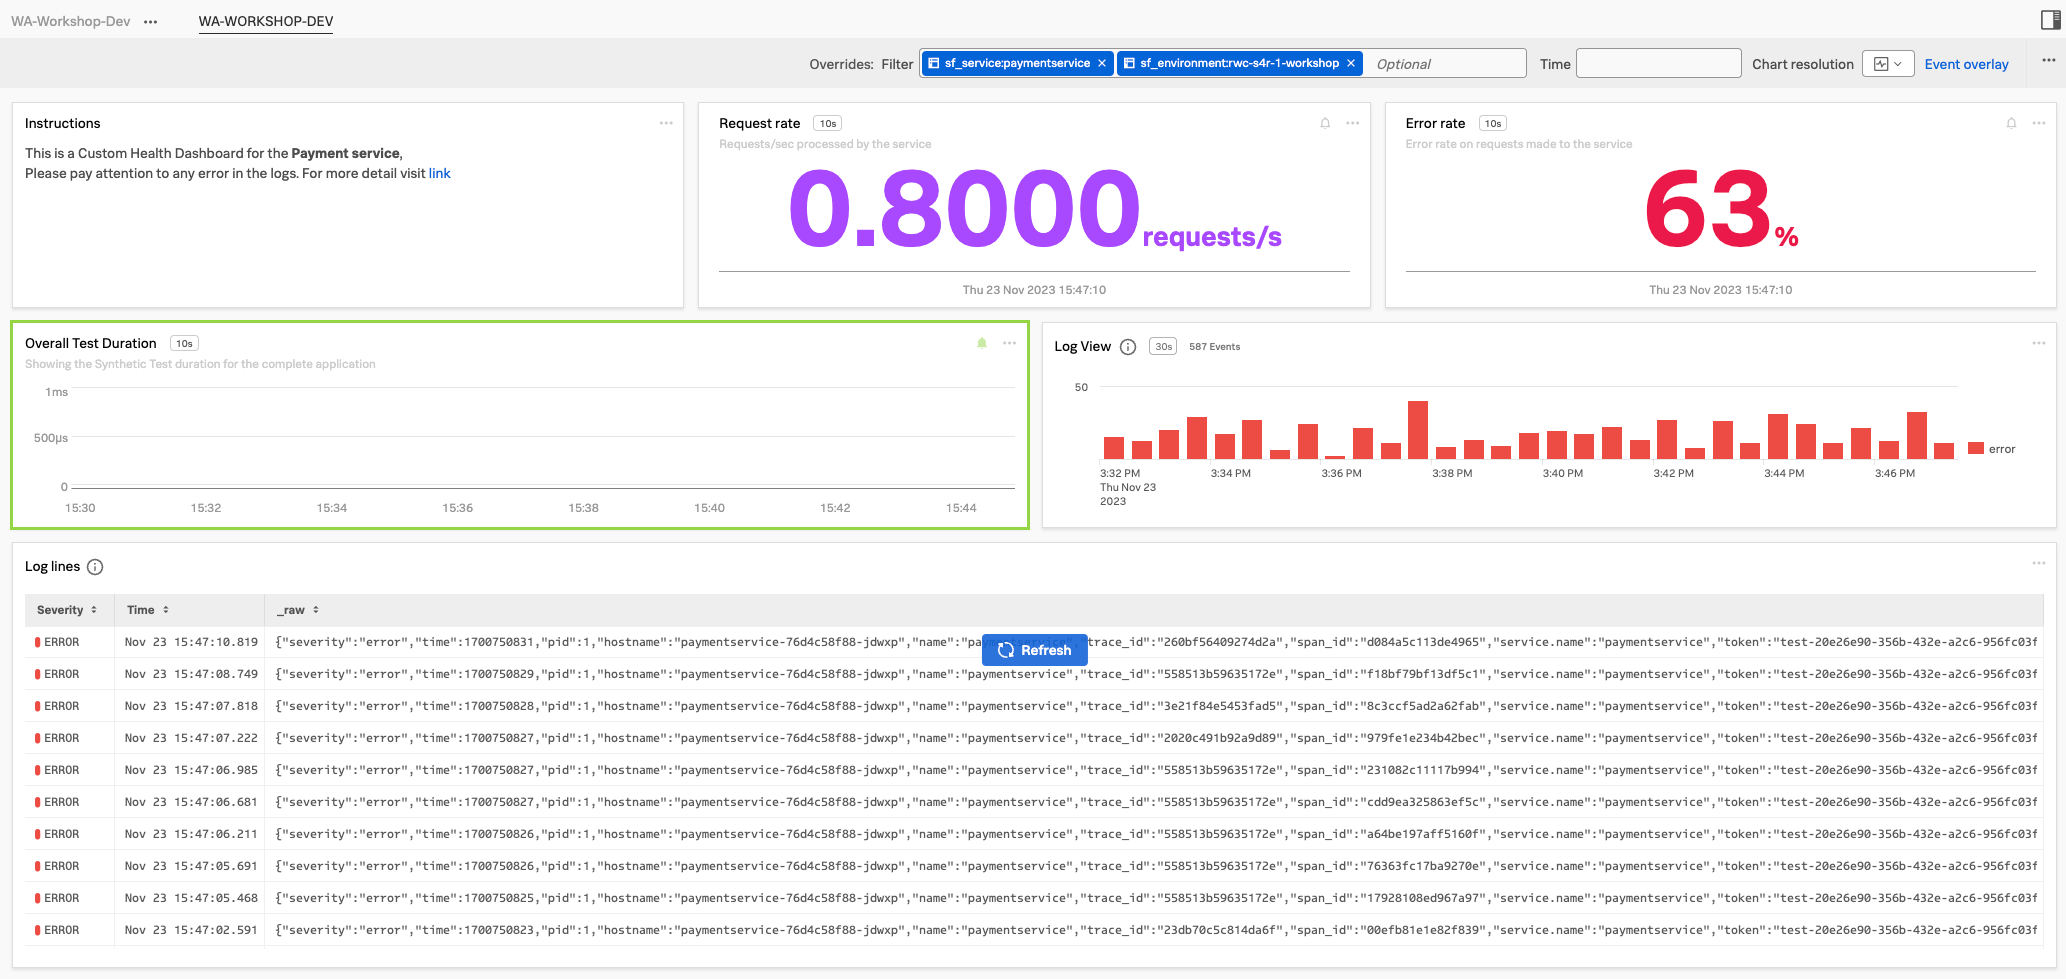
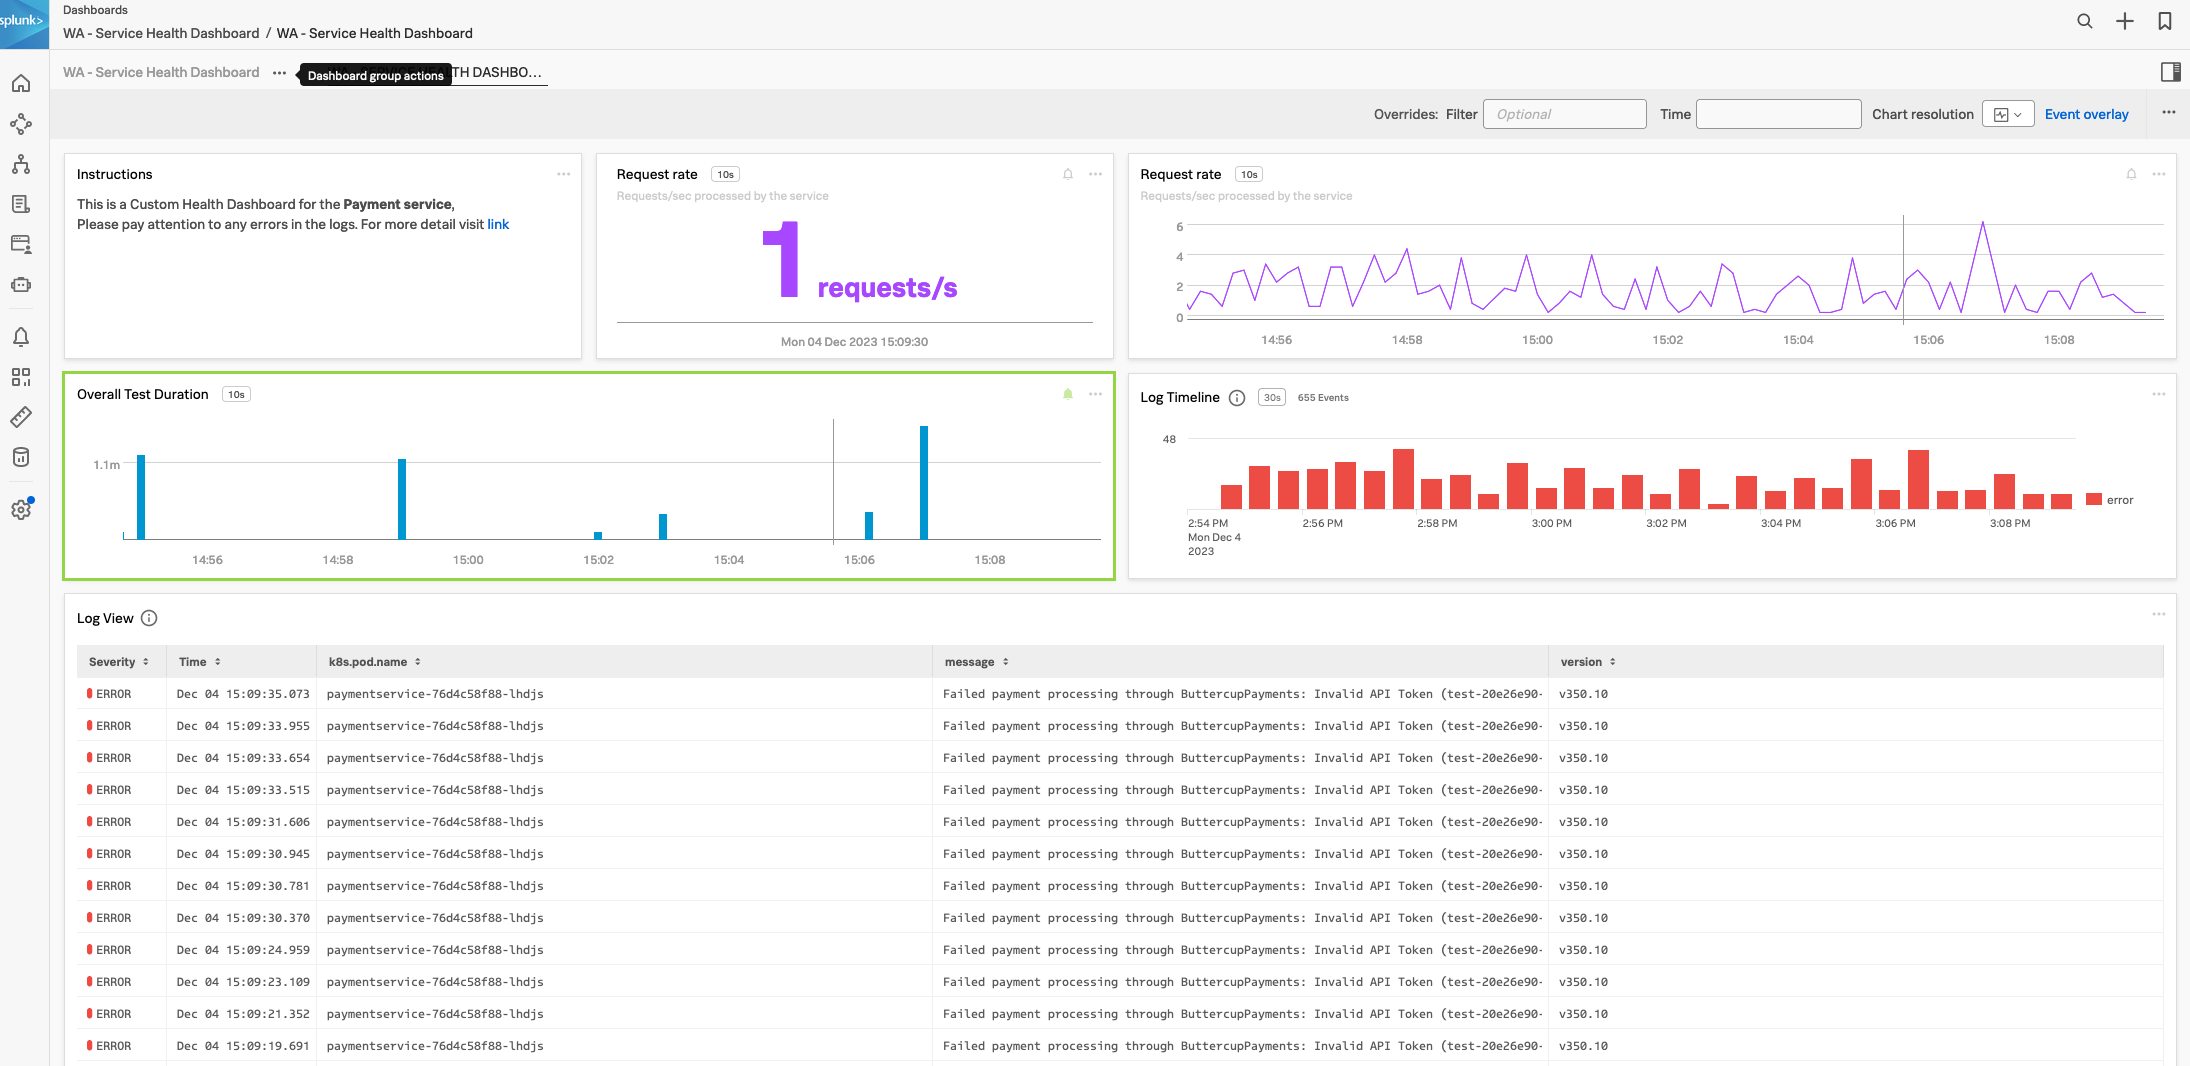
service dahsboard

diff --git a/content/en/s4r/9-custom-dashboard/3-custom-chart.md b/content/en/s4r/9-custom-dashboard/3-custom-chart.md
@@ -26,7 +26,7 @@ In this part of the workshop we are going to create a chart that we will add to 
 * Add our detector by clicking {{% button style="blue" %}}Link Detector{{% /button %}} and typing the name of the detector. (Start with your initials, assuming you used the recommended naming method.) the detector name should appear. A colored bar appears around your chart, indicating the status of the alert, (Green OK, Red Alert), as well as a bell signal at the top of the page as shown below.
   ![detector added](../images/detector-added.png)
 * Click the {{% button style="blue" %}}Save and close{{% /button %}} button.
-* In our dashboard, size the *Log view* chart to be the last 50% of the page width and drag the new *Overall Test Duration* chart in front of it.
+* In our dashboard, move the charts so they look like the screenshot below:.
   ![Service Health Dashboard](../images/service-health-dashboard.png)
 * As the last task, find the three dots **...** at the top of the page (next to *Event Overlay*) and click on *View fullscreen*. This will be the view you would use on the TV monitor on the wall (press Esc to go back). For TV monitors, setting the background color to black seems to work best.
 
